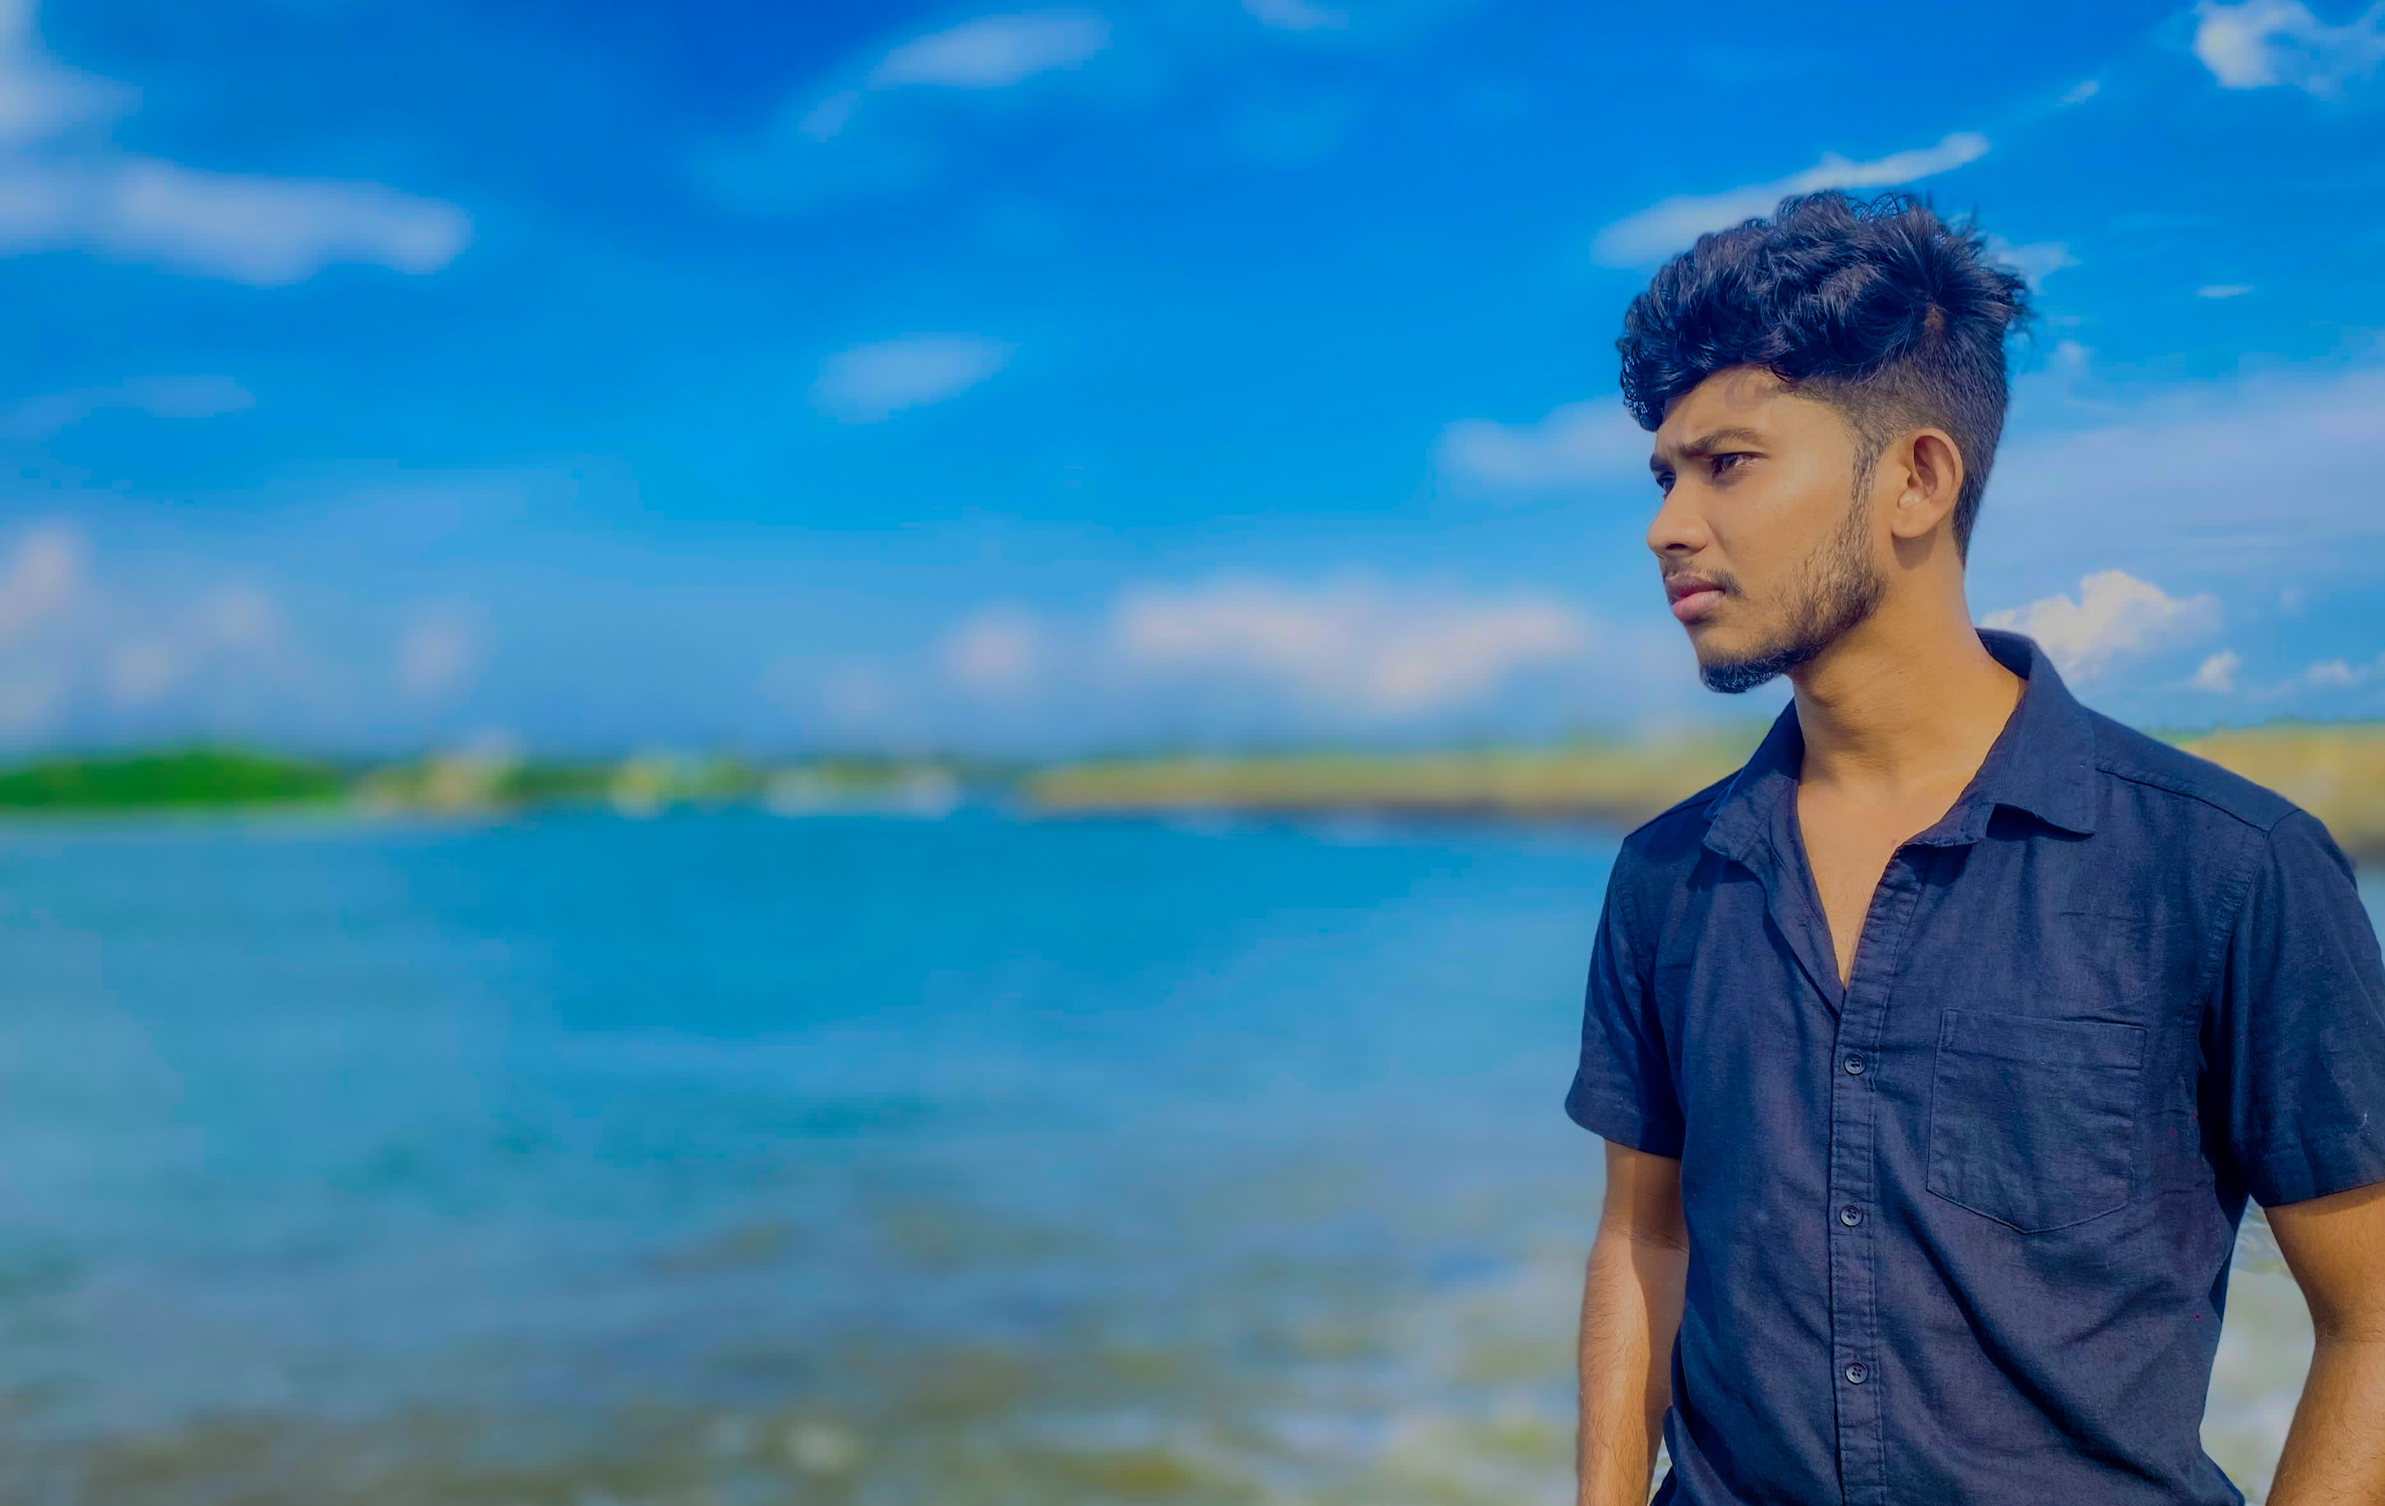
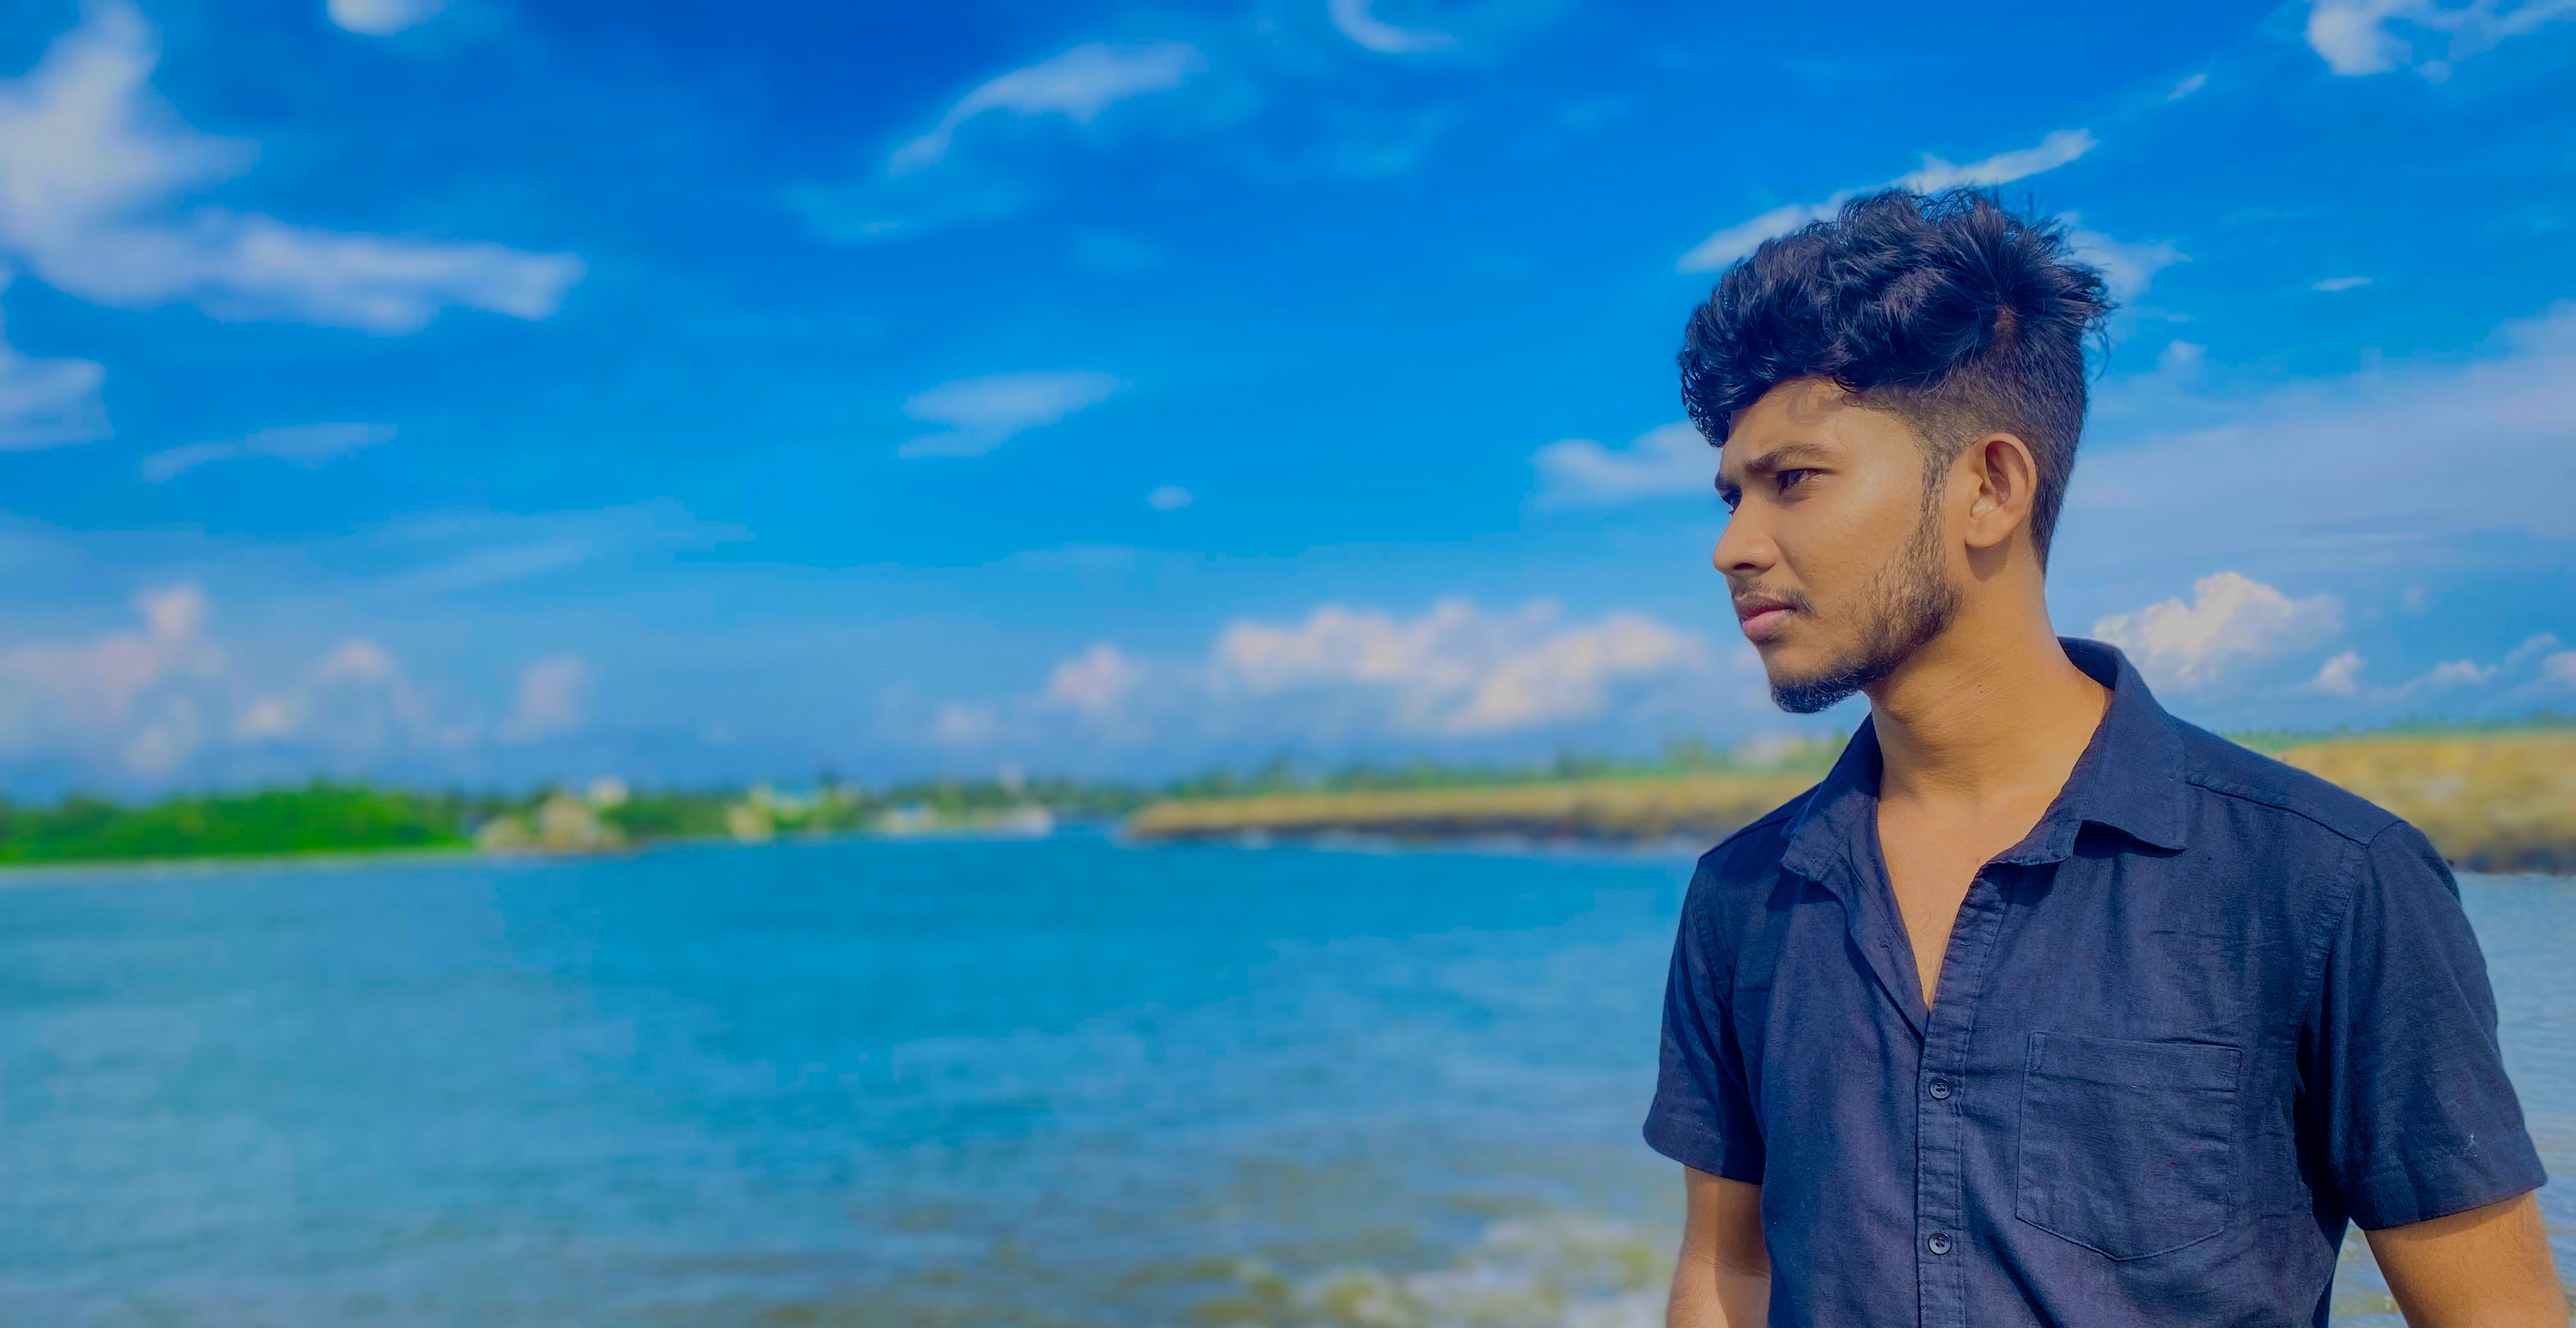
add new image

diff --git a/asserts/style/style.css b/asserts/style/style.css
@@ -62,19 +62,16 @@
     align-items: center;
     justify-content: center;
     z-index: -1;
-    border: 2px solid greenyellow;
 }
 .home-container{
     width: 100%;
     height: 90vh;
     object-fit: contain;
     z-index: 1;
-    border: 2px solid greenyellow;
 }
 .home-image{
     width: 100%;
     z-index: -1;
-    border: 2px solid greenyellow;
 }
 .glass{
     position: absolute;
